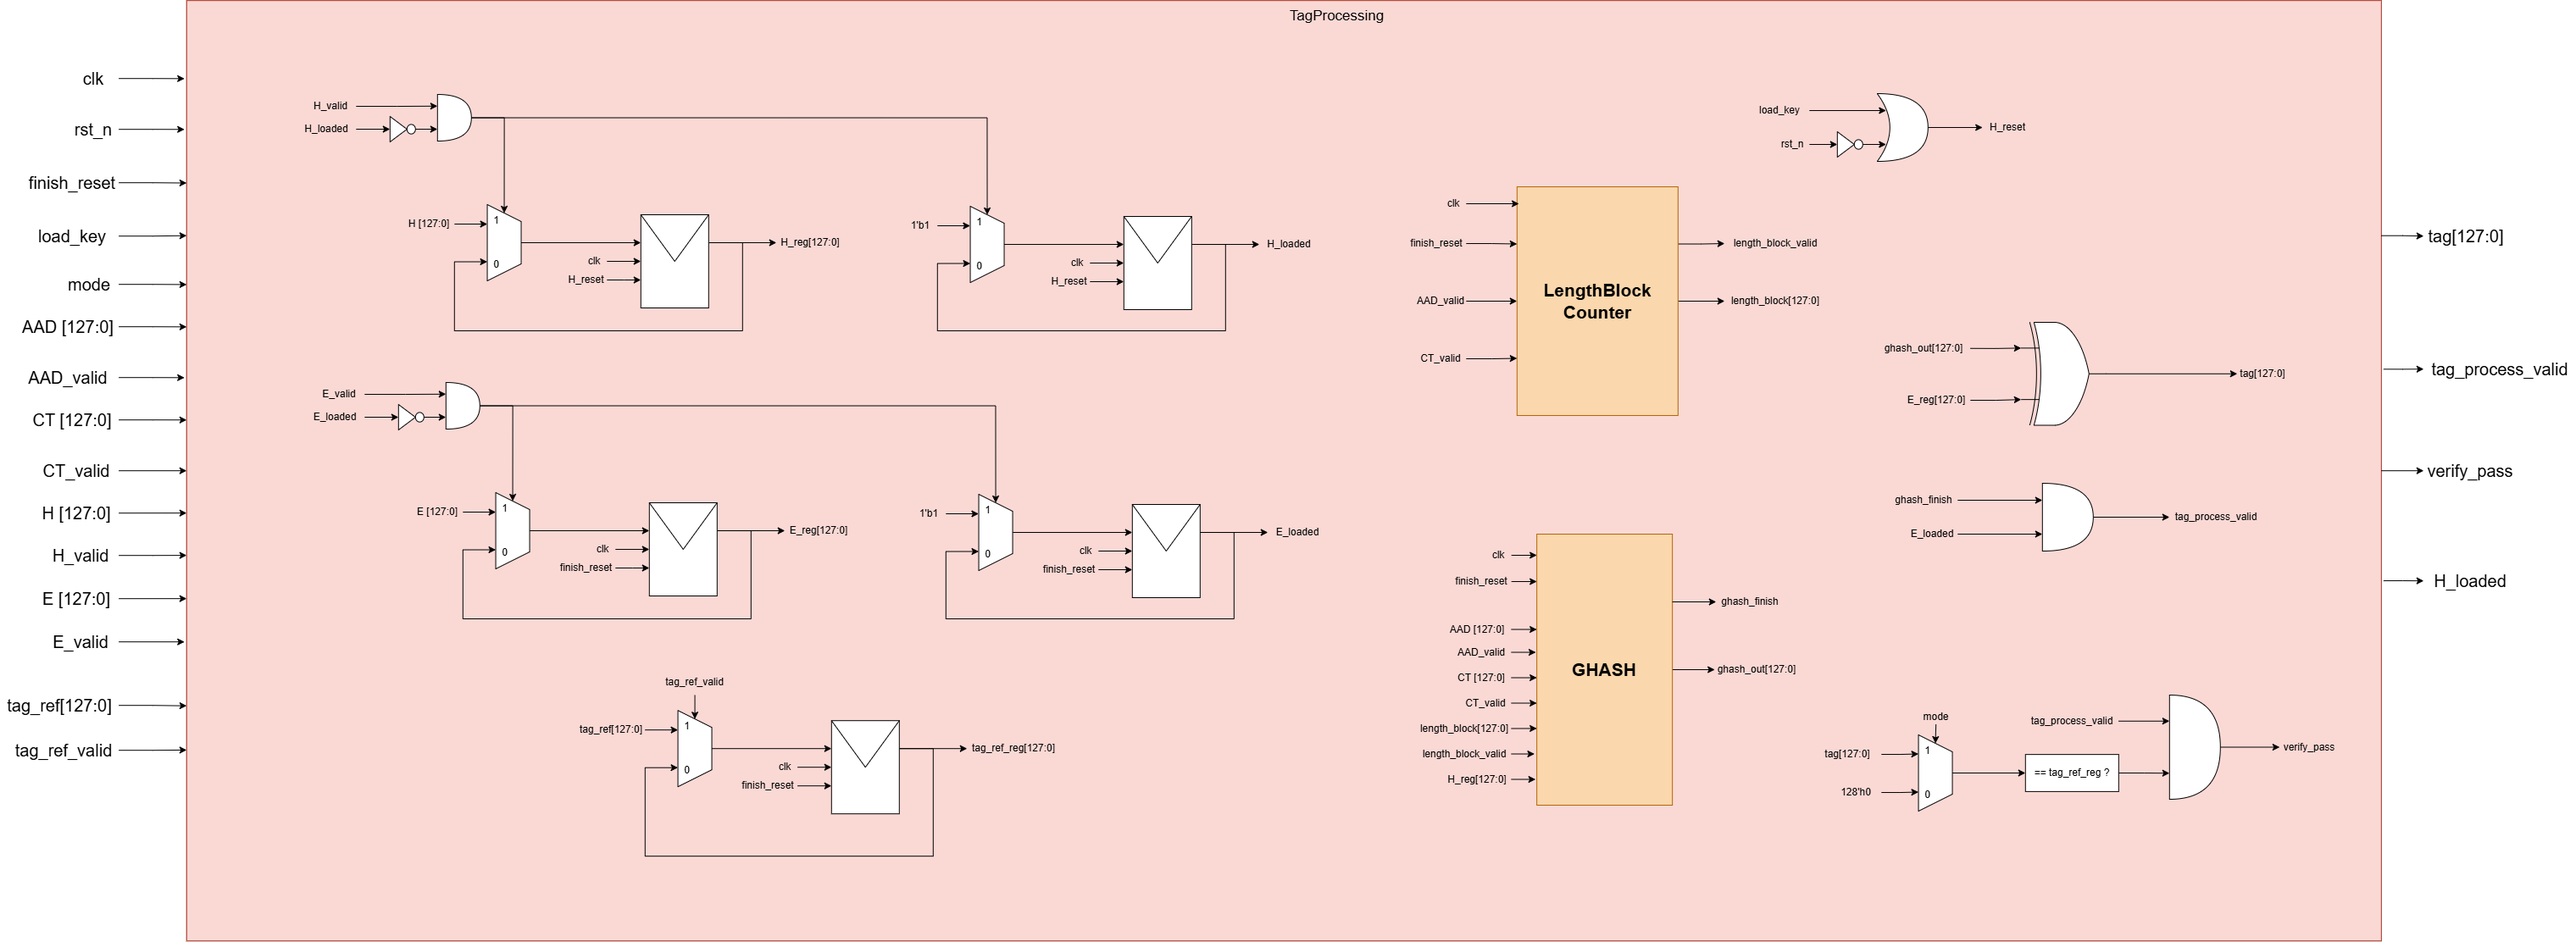
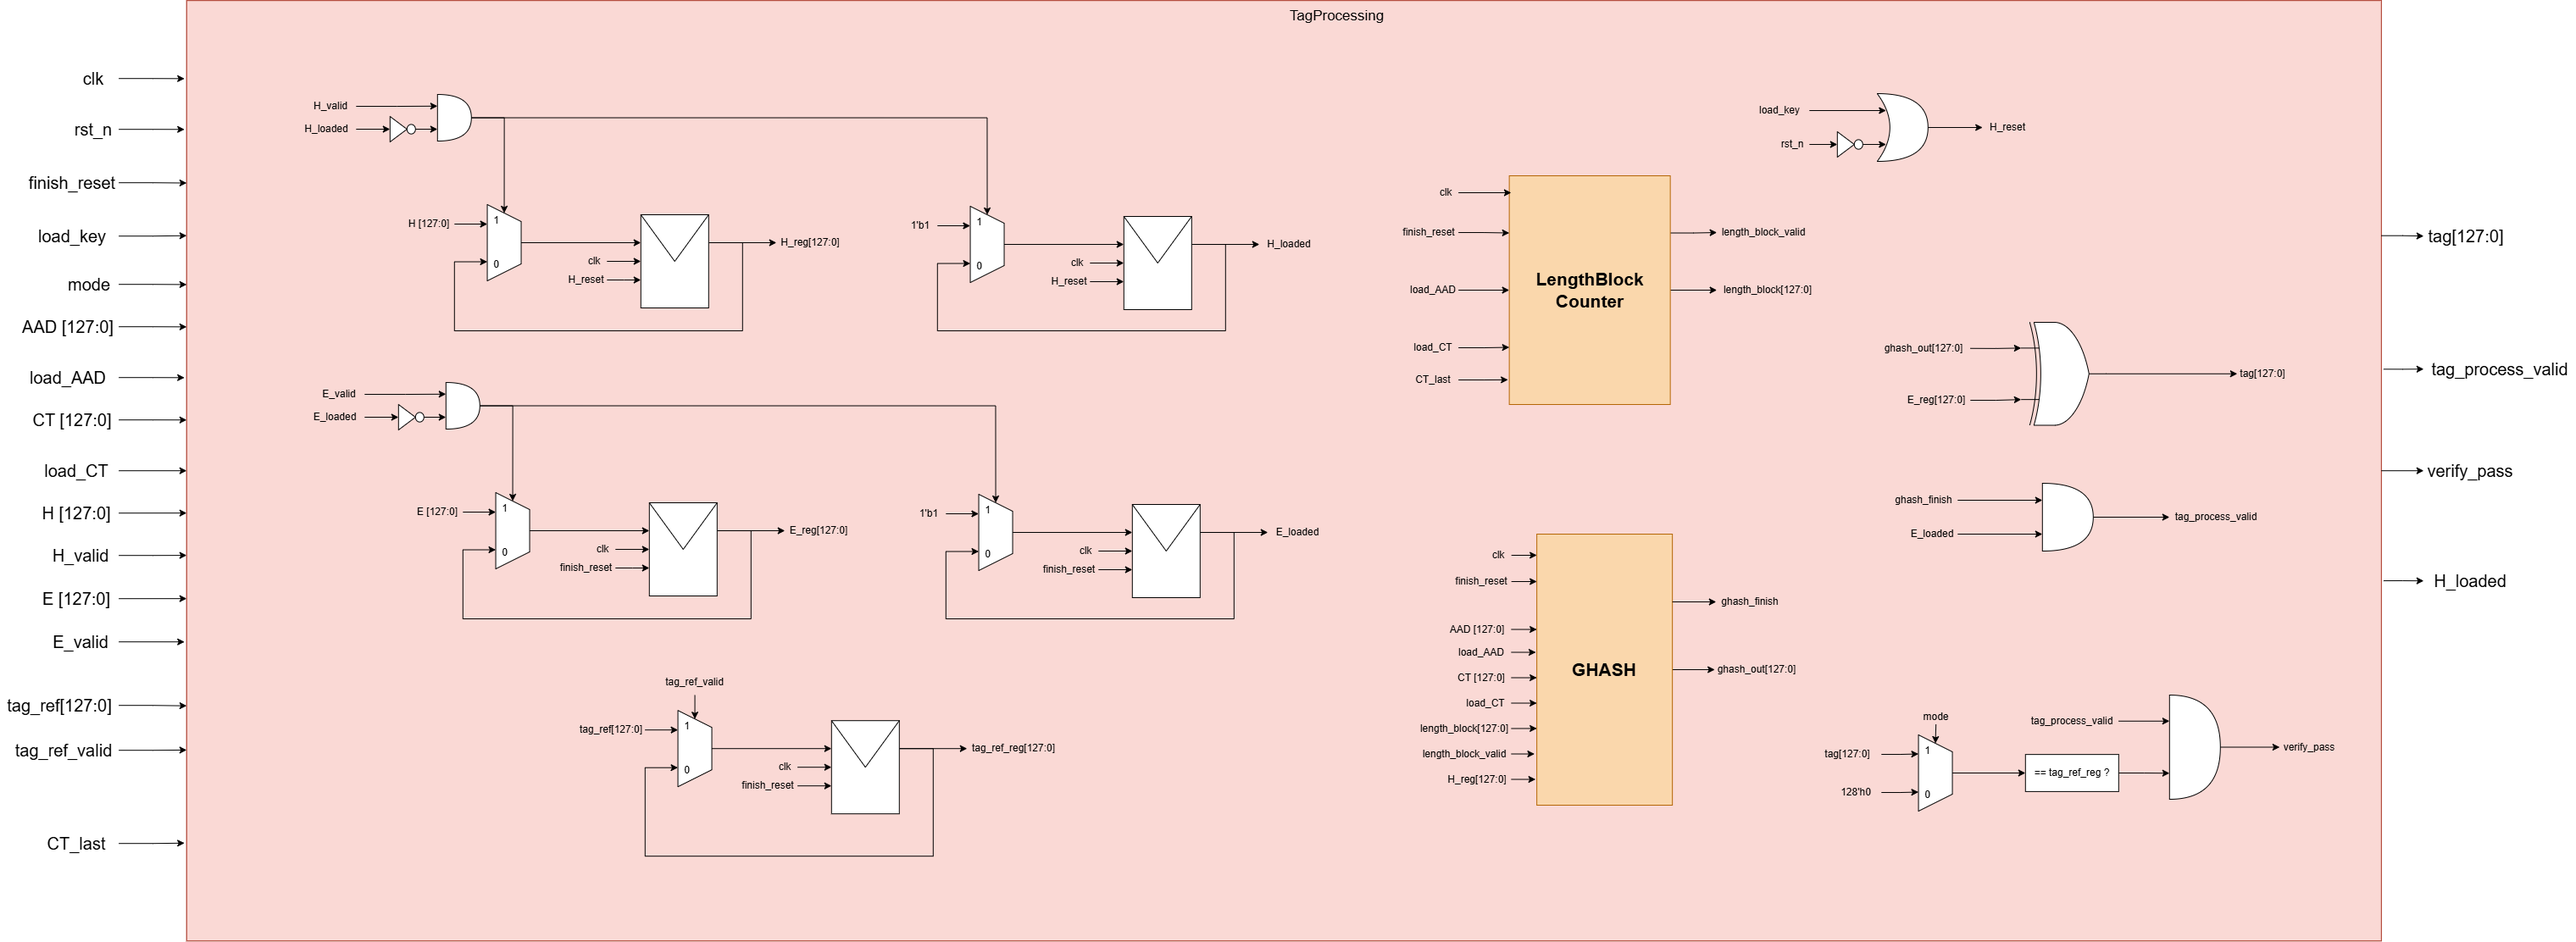
Refactor GHASH and LengthBlockCounter modules to use load signals
- Updated GHASH module to replace AAD_valid and CT_valid inputs with load_AAD and load_CT.
- Modified LengthBlockCounter to use load_AAD and load_CT instead of AAD_valid and CT_valid.
- Introduced CT_last signal in LengthBlockCounter to determine length_block_valid.
- Adjusted TagProcessing module to accommodate new load signals and CT_last.

diff --git a/Quang Long/AES-GCM-GHASH/_design/TagProcessing_Design.md b/Quang Long/AES-GCM-GHASH/_design/TagProcessing_Design.md
@@ -1,24 +1,25 @@
 # High level Design
 ![[TagProcessing high level.png]]
 
-| Tín hiệu        | Hướng  | Độ rộng | Mô tả                                                           |
-| :-------------- | :----- | :------ | :-------------------------------------------------------------- |
-| `clk`           | Input  | 1 bit   | Xung clock                                                      |
-| `rst_n`         | Input  | 1 bit   | Tín hiệu reset mức thấp                                         |
-| `finish_reset`  | Input  | 1 bit   | Tín hiệu reset khi khối AES-CTR hoàn thành quá trình            |
-| `load_key`      | Input  | 1 bit   | Cờ báo có Cipherkey mới đi vào                                  |
-| `mode`          | Input  | 1 bit   | Lựa chọn giữa chế độ mã hóa hoặc giải mã                        |
-| `AAD`           | Input  | 128 bit | Dữ liệu vào (AAD)                                               |
-| `CT`            | Input  | 128 bit | Dữ liệu vào (Ciphertext)                                        |
-| `tag_ref`       | Input  | 128 bit | Tag tham chiếu, dùng cho chế độ giải mã                         |
-| `H`             | Input  | 128 bit | Khóa $H=AES_{K}(0)$                                             |
-| `E`             | Input  | 128 bit | Khóa $E=AES_{K}(J_{0})$                                         |
-| `AAD_valid`     | Input  | 1 bit   | Cờ báo AAD hợp lệ                                               |
-| `CT_valid`      | Input  | 1 bit   | Cờ báo Ciphertext hợp lệ                                        |
-| `H_valid`       | Input  | 1 bit   | Cờ báo khóa $H$ hợp lệ                                          |
-| `E_valid`       | Input  | 1 bit   | Cờ báo khóa $E$ hợp lệ                                          |
-| `tag_ref_valid` | Input  | 1 bit   | Cờ báo `tag_ref` hợp lệ                                         |
-| `H_loaded`      | Output | 1 bit   | Cờ báo đã hoàn tất load khóa $H$                                |
-| `tag`           | Output | 128 bit | Authentication Tag                                              |
-| `tag_valid`     | Output | 1 bit   | Báo hiệu đã hoàn tất quá trình sinh Tag, dùng cho chế độ mã hóa |
-| `verify_pass`   | Output | 1 bit   | Cờ báo Tag hợp lệ, dùng cho chế độ giải mã                      |
+| Tín hiệu            | Hướng  | Độ rộng | Mô tả                                                           |
+| :------------------ | :----- | :------ | :-------------------------------------------------------------- |
+| `clk`               | Input  | 1 bit   | Xung clock                                                      |
+| `rst_n`             | Input  | 1 bit   | Tín hiệu reset mức thấp                                         |
+| `finish_reset`      | Input  | 1 bit   | Tín hiệu reset khi khối AES-CTR hoàn thành quá trình            |
+| `load_key`          | Input  | 1 bit   | Cờ báo có Cipherkey mới đi vào                                  |
+| `mode`              | Input  | 1 bit   | Lựa chọn giữa chế độ mã hóa hoặc giải mã                        |
+| `AAD`               | Input  | 128 bit | Dữ liệu vào (AAD)                                               |
+| `CT`                | Input  | 128 bit | Dữ liệu vào (Ciphertext)                                        |
+| `tag_ref`           | Input  | 128 bit | Tag tham chiếu, dùng cho chế độ giải mã                         |
+| `H`                 | Input  | 128 bit | Khóa $H=AES_{K}(0)$                                             |
+| `E`                 | Input  | 128 bit | Khóa $E=AES_{K}(J_{0})$                                         |
+| `load_AAD`          | Input  | 1 bit   | Cờ báo AAD hợp lệ                                               |
+| `load_CT`           | Input  | 1 bit   | Cờ báo Ciphertext hợp lệ                                        |
+| `H_valid`           | Input  | 1 bit   | Cờ báo khóa $H$ hợp lệ                                          |
+| `E_valid`           | Input  | 1 bit   | Cờ báo khóa $E$ hợp lệ                                          |
+| `tag_ref_valid`     | Input  | 1 bit   | Cờ báo `tag_ref` hợp lệ                                         |
+| `CT_last`           | Input  | 1 bit   | Cờ báo Ciphertext cuối cùng                                     |
+| `H_loaded`          | Output | 1 bit   | Cờ báo đã hoàn tất load khóa $H$                                |
+| `tag`               | Output | 128 bit | Authentication Tag                                              |
+| `tag_process_valid` | Output | 1 bit   | Báo hiệu đã hoàn tất quá trình sinh Tag, dùng cho chế độ mã hóa |
+| `verify_pass`       | Output | 1 bit   | Cờ báo Tag hợp lệ, dùng cho chế độ giải mã                      |

diff --git a/Quang Long/AES-GCM-GHASH/_design/GHASH_Design.md b/Quang Long/AES-GCM-GHASH/_design/GHASH_Design.md
@@ -6,9 +6,9 @@
 | `clk`                | Input  | 1 bit   | Xung clock                                |
 | `finish_reset`       | Input  | 1 bit   | Tín hiệu reset đặc biệt, tích cực mức cao |
 | `AAD`                | Input  | 128 bit | Dữ liệu vào (AAD)                         |
-| `AAD_valid`          | Input  | 1 bit   | Cờ báo AAD hợp lệ                         |
+| `load_AAD`           | Input  | 1 bit   | Cờ báo AAD hợp lệ                         |
 | `CT`                 | Input  | 128 bit | Dữ liệu vào (Ciphertext)                  |
-| `CT_valid`           | Input  | 1 bit   | Cờ báo Ciphertext hợp lệ                  |
+| `load_CT`            | Input  | 1 bit   | Cờ báo Ciphertext hợp lệ                  |
 | `length_block`       | Input  | 128 bit | Dữ liệu vào (Length Block)                |
 | `length_block_valid` | Input  | 1 bit   | Cờ báo Length Block hợp lệ                |
 | `H_reg`              | Input  | 128 bit | Khóa $H=AES(K,0)$                         |

diff --git a/Quang Long/AES-GCM-GHASH/_design/LengthBlockCounter_Design.md b/Quang Long/AES-GCM-GHASH/_design/LengthBlockCounter_Design.md
@@ -5,8 +5,9 @@
 | :------------------- | :----- | :------ | :---------------------------------------- |
 | `clk`                | Input  | 1 bit   | Xung clock                                |
 | `finish_reset`       | Input  | 1 bit   | Tín hiệu reset đặc biệt, tích cực mức cao |
-| `AAD_valid`          | Input  | 1 bit   | Cờ báo AAD hợp lệ                         |
-| `CT_valid`           | Input  | 1 bit   | Cờ báo Ciphertext hợp lệ                  |
+| `load_AAD`           | Input  | 1 bit   | Cờ báo AAD hợp lệ                         |
+| `load_CT`            | Input  | 1 bit   | Cờ báo Ciphertext hợp lệ                  |
+| `CT_last`            | Input  | 1 bit   | Cờ báo Ciphertext cuối cùng               |
 | `length_block`       | Output | 128 bit | Length Block AAD \|\| Ciphertext          |
 | `length_block_valid` | Output | 1 bit   | Cờ báo Length Block hợp lệ                |
 # Low level Design
